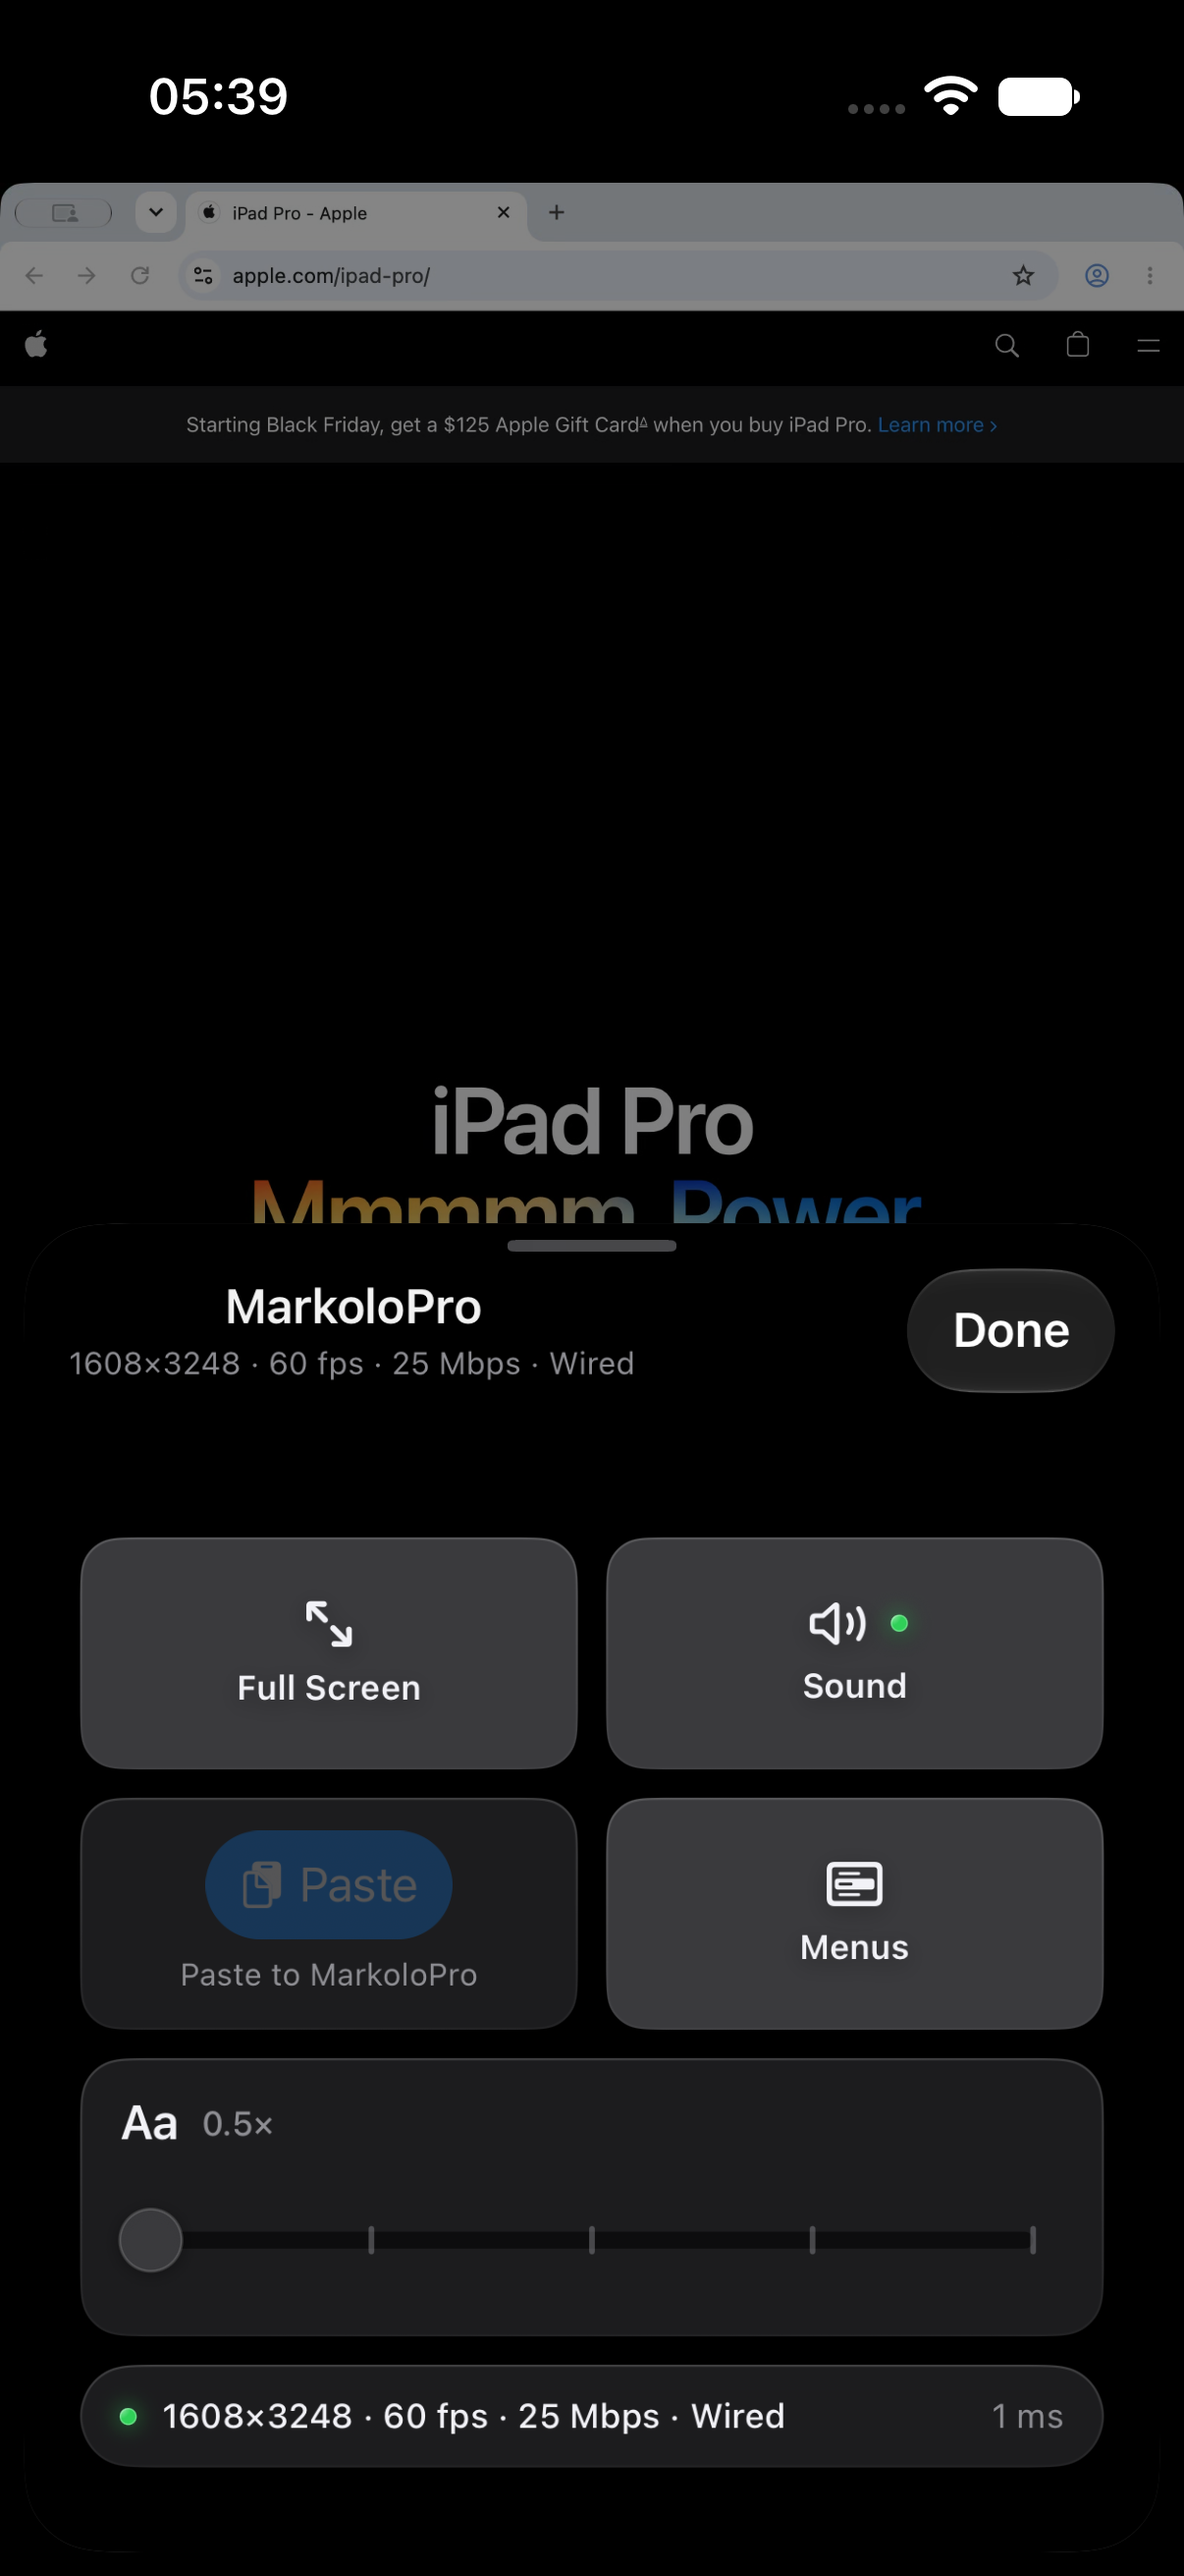
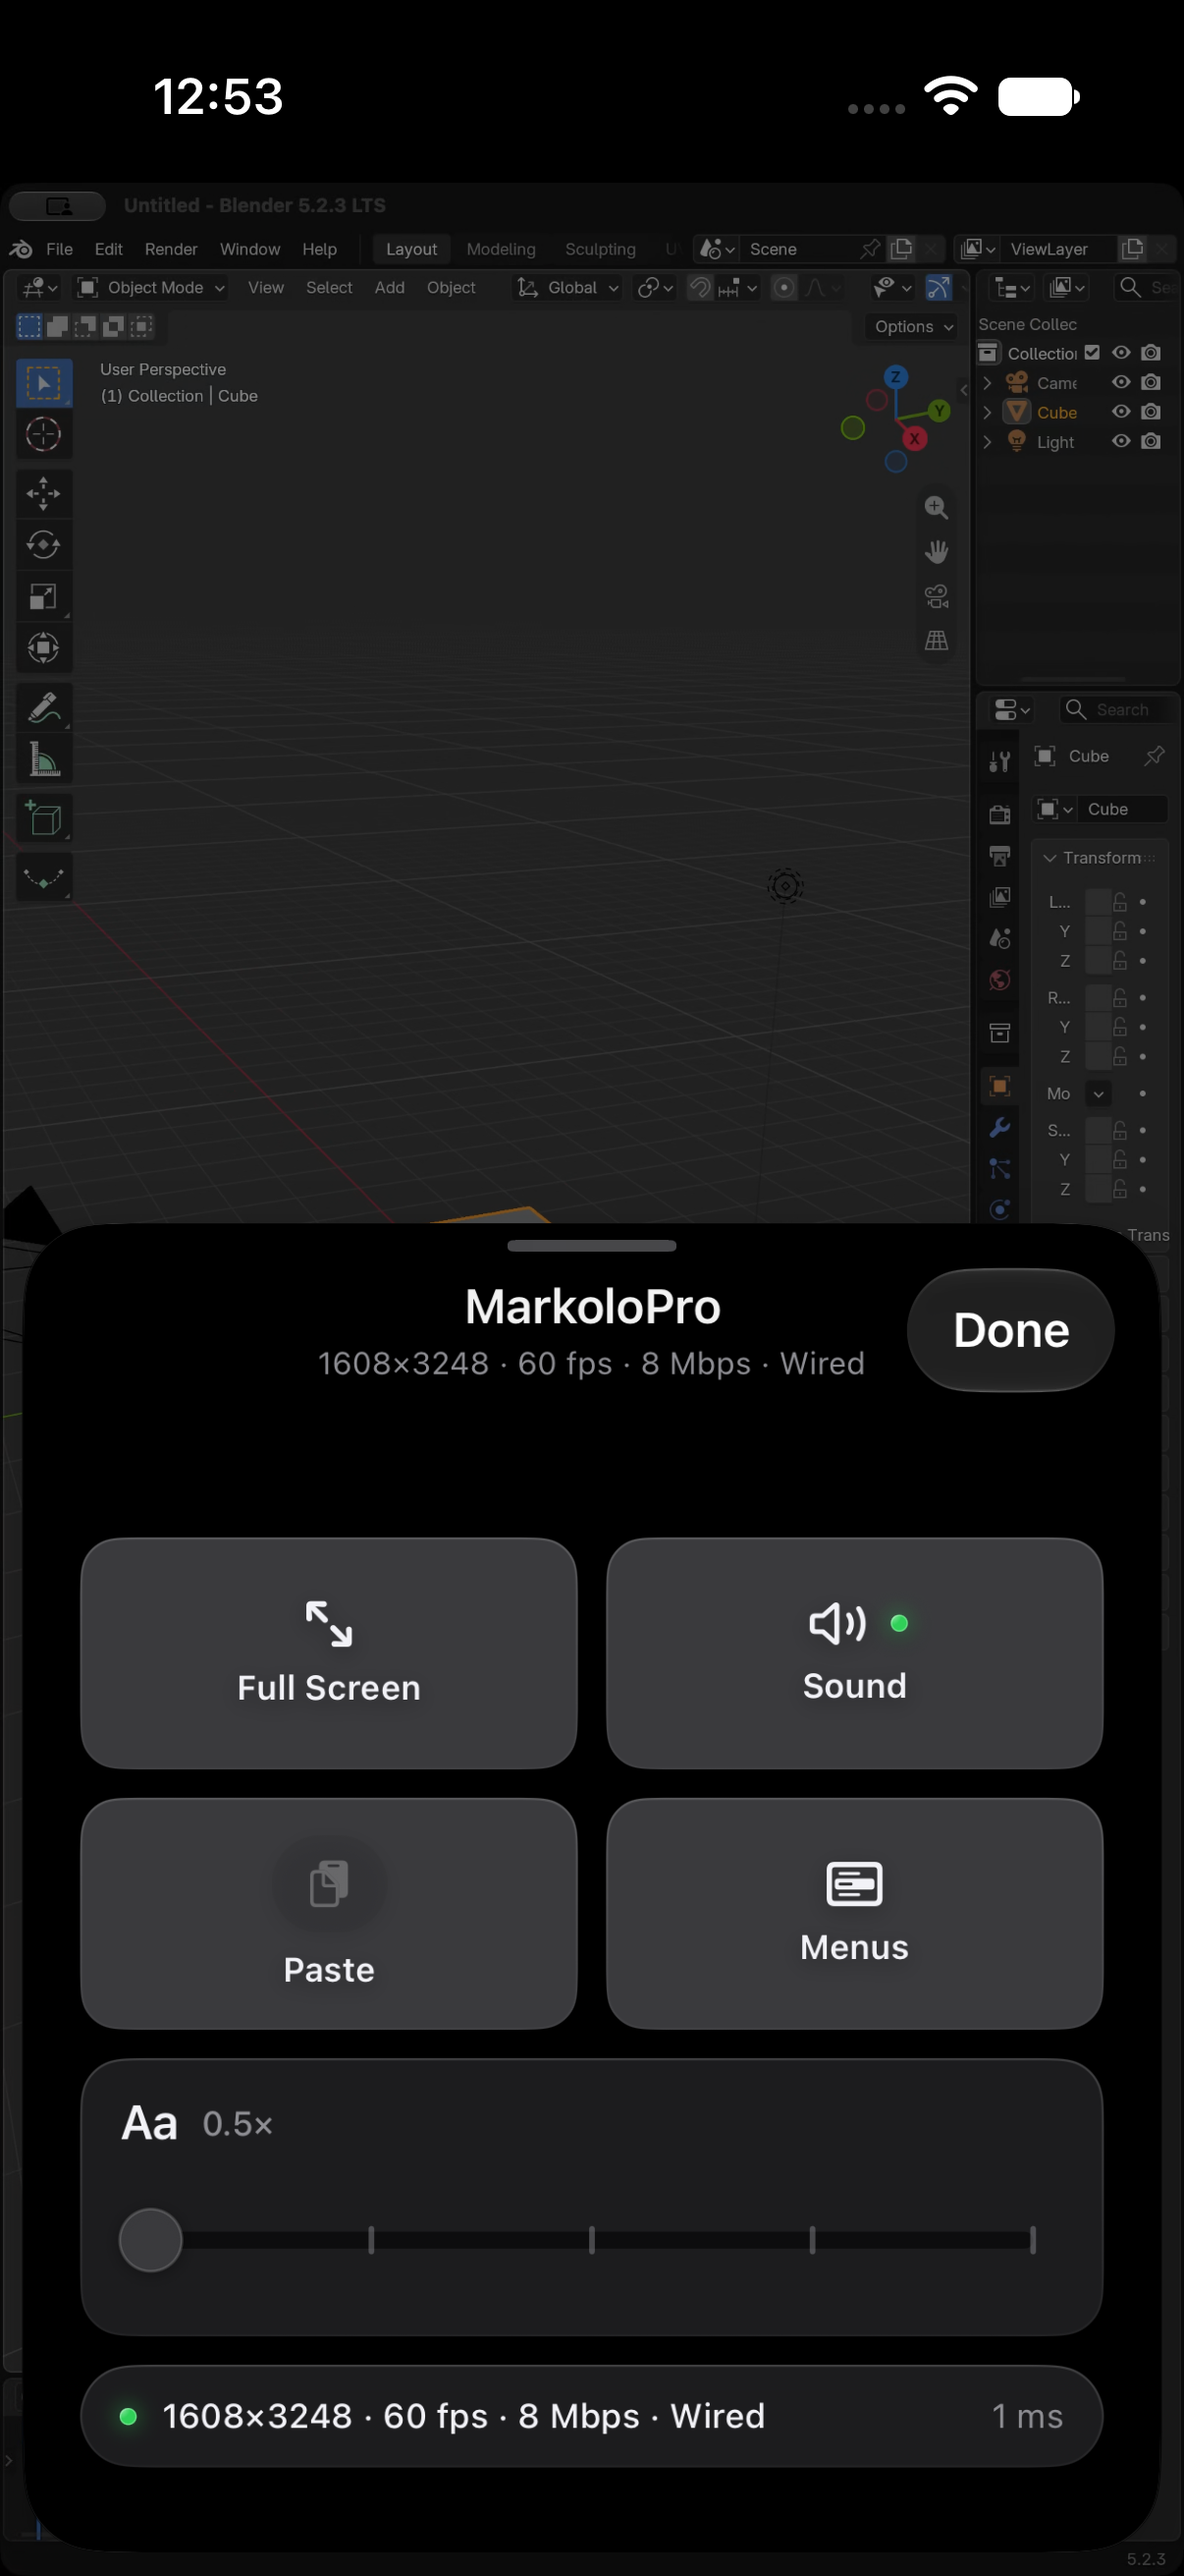
Unify Control Center Paste tile with DeckTile SSOT and refresh showcase shot

diff --git a/iOSClient/ControlCenterSheet.swift b/iOSClient/ControlCenterSheet.swift
@@ -190,22 +190,17 @@ struct ControlCenterSheet: View {
         .accessibilityLabel(client.soundMuted ? "Unmute sound from \(mac)" : "Mute sound from \(mac)")
     }
 
-    /// Paste on ‹Mac›: the system's own `PasteButton` (`ClipboardPasteButton`), which pastes this
-    /// device's clipboard without ever asking for it — the tile frames it, the button does the
-    /// permission.
     private var pasteTile: some View {
         VStack(spacing: 5) {
-            ClipboardPasteButton(client: client)
-                .controlSize(.small)
-            Text("Paste to \(mac)")
-                .font(.caption2)
-                .foregroundStyle(TactileTokens.textSecondary)
+            ClipboardPasteButton(client: client, iconOnly: true, tint: TactileTokens.controlRaised)
+                .controlSize(.mini)
+            Text("Paste")
+                .font(.caption.weight(.semibold))
+                .foregroundStyle(TactileTokens.textPrimary)
                 .lineLimit(1)
         }
         .frame(maxWidth: .infinity, minHeight: 66)
-        .padding(.horizontal, 12)
-        .padding(.vertical, 8)
-        .tactileSurface(.recessedHardware, shape: .rounded(14))
+        .tactileDeckTileSurface(shape: .rounded(14))
     }
 
     /// Menus: drills into the Mac's menus inside this sheet (`route = .macMenus`); dimmed while the

diff --git a/iOSClient/ClipboardChip.swift b/iOSClient/ClipboardChip.swift
@@ -116,17 +116,23 @@ private struct ClipboardGlassSurface: ViewModifier {
 /// clipboard has no text. Its label is the system's ("Paste").
 struct ClipboardPasteButton: View {
     @ObservedObject var client: StreamClient
+    var iconOnly: Bool = false
+    var tint: Color = Palette.accent
     @AppStorage(StreamClient.pasteRightAwayKey) private var pasteRightAway = true
 
     var body: some View {
-        PasteButton(payloadType: String.self) { strings in
-            // On the main thread whatever queue the system hands it on.
+        let base = PasteButton(payloadType: String.self) { strings in
             DispatchQueue.main.async { client.sendClipboard(strings) }
         }
         .buttonBorderShape(.capsule)
-        .labelStyle(.titleAndIcon)
-        .tint(Palette.accent)
+        .tint(tint)
         .accessibilityHint(ClipboardPolicy.Copy.pasteHint(mac: client.macName.isEmpty ? "the Mac" : client.macName,
                                                           device: StreamClient.deviceWord, rightAway: pasteRightAway))
+
+        if iconOnly {
+            base.labelStyle(.iconOnly)
+        } else {
+            base.labelStyle(.titleAndIcon)
+        }
     }
 }

diff --git a/iOSClient/TactileStyle.swift b/iOSClient/TactileStyle.swift
@@ -600,6 +600,21 @@ extension View {
         buttonStyle(MachinedTactileButtonStyle(role: role, shape: shape))
     }
 
+    func tactileDeckTileSurface(shape: TactileSurfaceShape = .rounded(14)) -> some View {
+        let radius: CGFloat = {
+            if case .rounded(let r) = shape { return r }
+            return 14
+        }()
+        return padding(.horizontal, 12)
+            .padding(.vertical, 8)
+            .background(
+                RoundedRectangle(cornerRadius: radius, style: .continuous)
+                    .fill(TactileTokens.keycapTop)
+            )
+            .tactileSpecularBorder(shape, lineWidth: 0.75)
+            .shadow(color: TactileTokens.ambientShadow.opacity(0.8), radius: 4, x: 0, y: 2)
+    }
+
     func tactileSpecularBorder(_ shape: TactileSurfaceShape, lineWidth: CGFloat = 0.75, active: Bool = false) -> some View {
         overlay {
             TactileSpecularRim(shape: shape, lineWidth: lineWidth, active: active)
